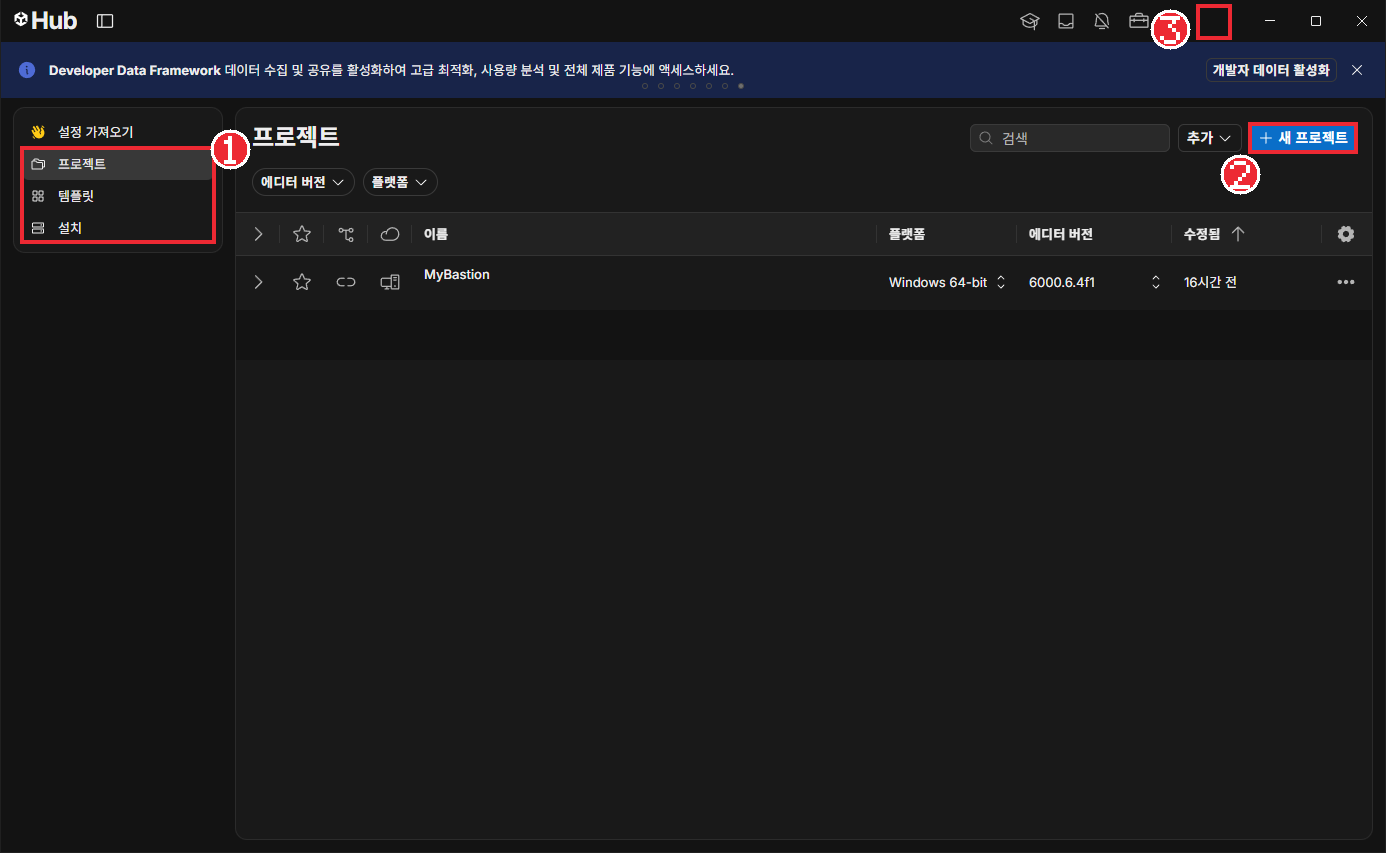
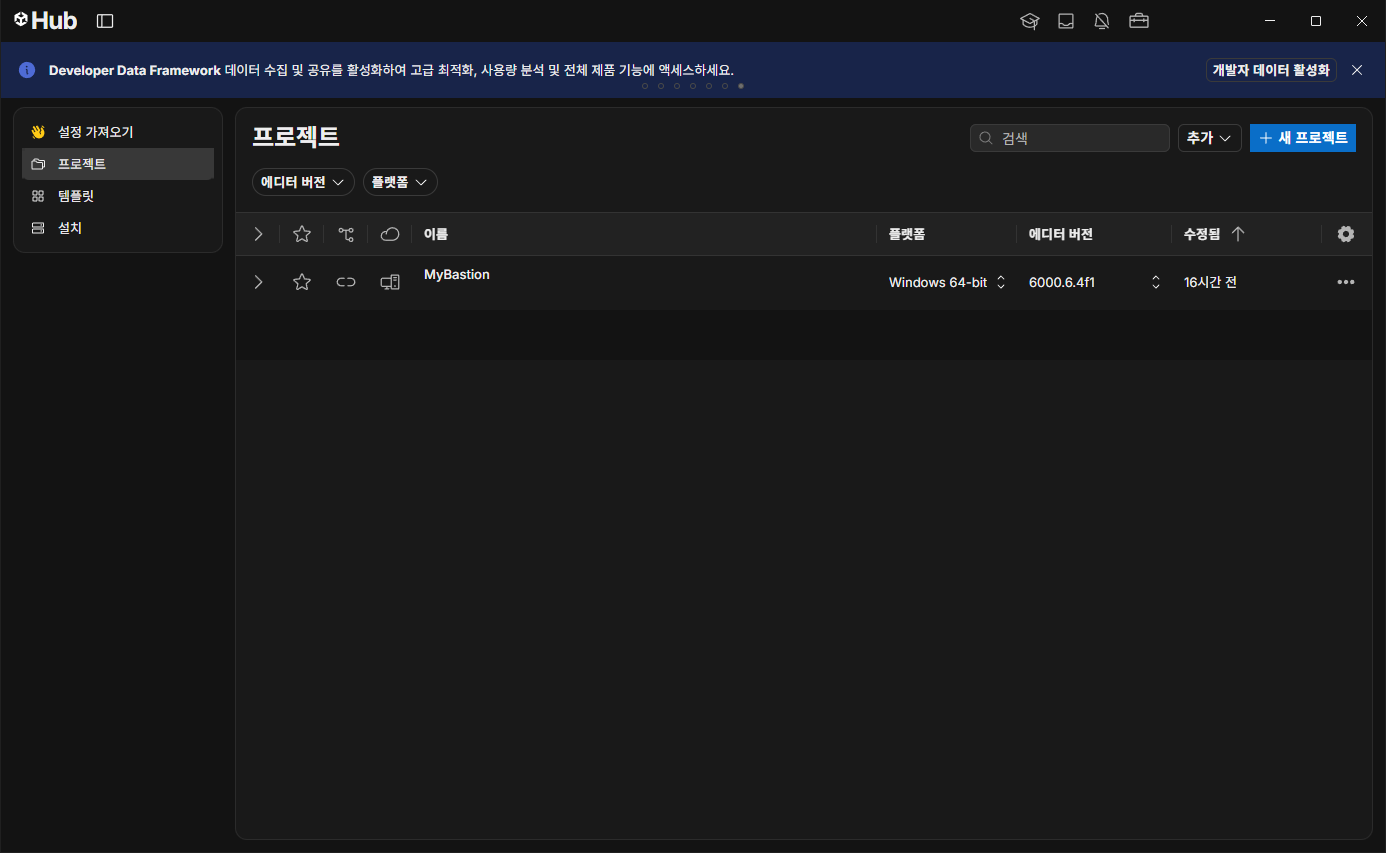
Update Unity docs

diff --git a/docs/unity/img/README.md b/docs/unity/img/README.md
@@ -4,8 +4,9 @@ Unity 자습 자료 본문에 쓰인 그림입니다. 에디터 스크린샷은 
 
 | 파일 | 쓰인 곳 | 내용 |
 |---|---|---|
-| 01-hub-home.png | [01-install-first-project.md](../01-install-first-project.md) | Unity Hub 첫 화면: 1 왼쪽 메뉴의 프로젝트(Projects), 템플릿, 설치(Installs), 2 새 프로젝트(New project) 버튼, 3 계정 아이콘 |
+| 01-hub-home.png | [01-install-first-project.md](../01-install-first-project.md) | Unity Hub 첫 화면: 왼쪽 메뉴(프로젝트, 템플릿, 설치)와 프로젝트 목록 |
 | 01-hub-install-editor.png | [01-install-first-project.md](../01-install-first-project.md) | Unity 에디터 설치 창: 1 정식 릴리스 탭, 2 Unity 6.6 버전, 3 설치 버튼 |
+| 01-hub-projects-new.png | [01-install-first-project.md](../01-install-first-project.md) | Hub 프로젝트 화면: 1 왼쪽 메뉴의 프로젝트(Projects), 2 새 프로젝트(New project) 버튼 |
 | 01-hub-new-project.png | [01-install-first-project.md](../01-install-first-project.md) | 새 프로젝트 화면: 1 Universal 2D 템플릿, 2 프로젝트 이름 MyBastion, 3 위치, 4 프로젝트 생성 버튼 |
 | 01-editor-layout.png | [01-install-first-project.md](../01-install-first-project.md) | 에디터 전체 화면에 번호를 붙인 그림: 1 Hierarchy, 2 Scene/Game, 3 Inspector, 4 Project/Console, 5 Play 버튼 |
 | 02-new-scene-dialog.png | [02-scene-gameobject.md](../02-scene-gameobject.md) | New Scene 창: 1 Lit 2D (URP) 템플릿, 2 고른 템플릿의 설명(카메라와 Global Light 2D), 3 Create 버튼 |
